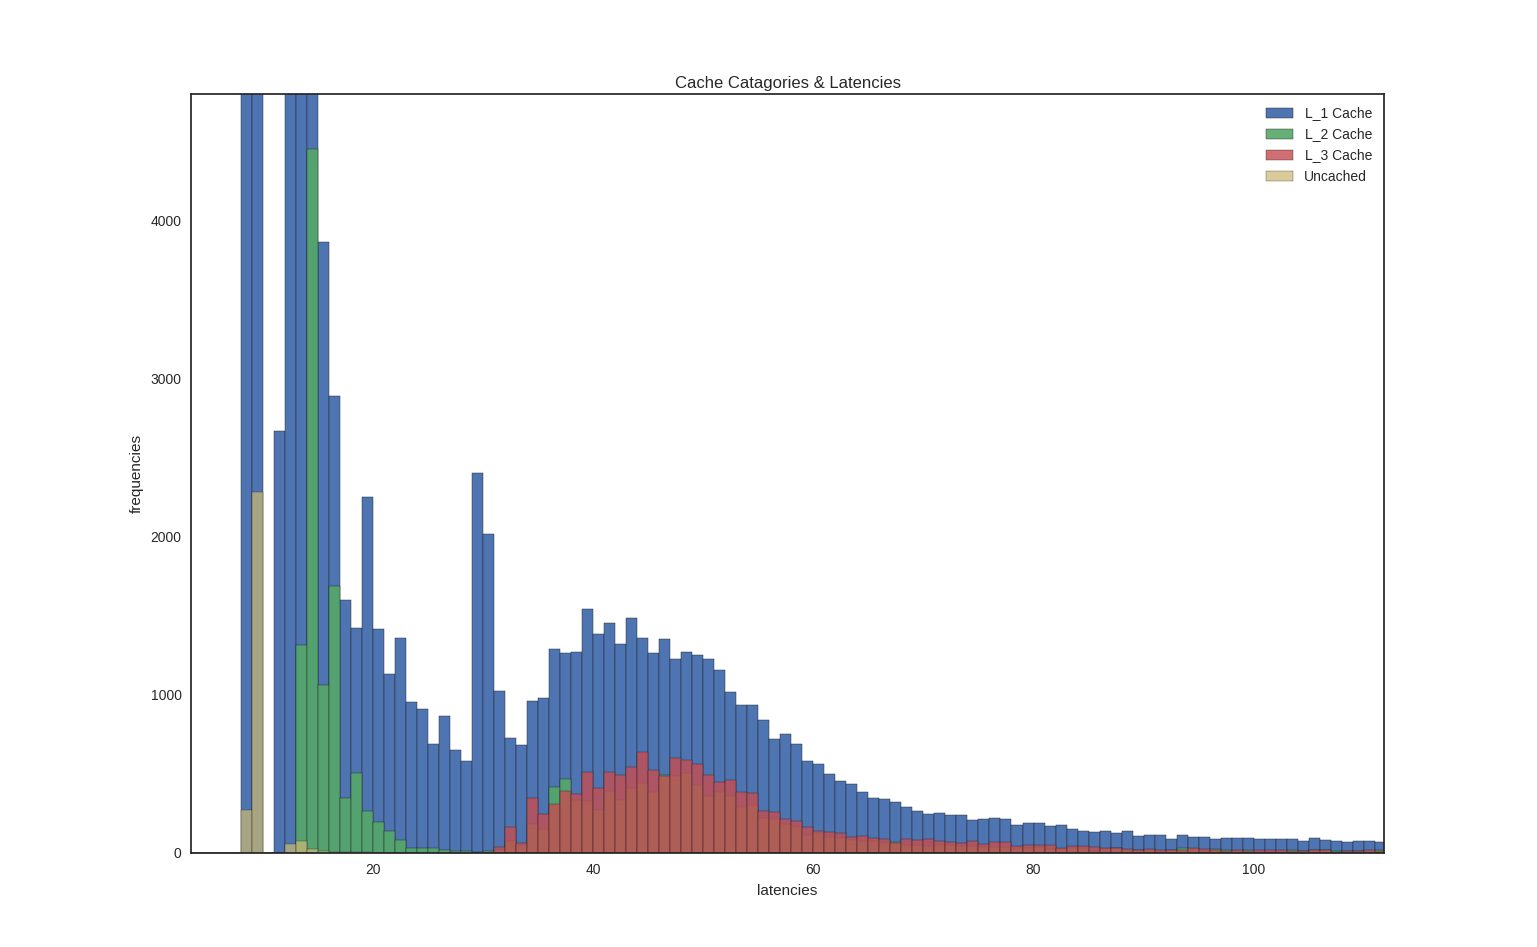
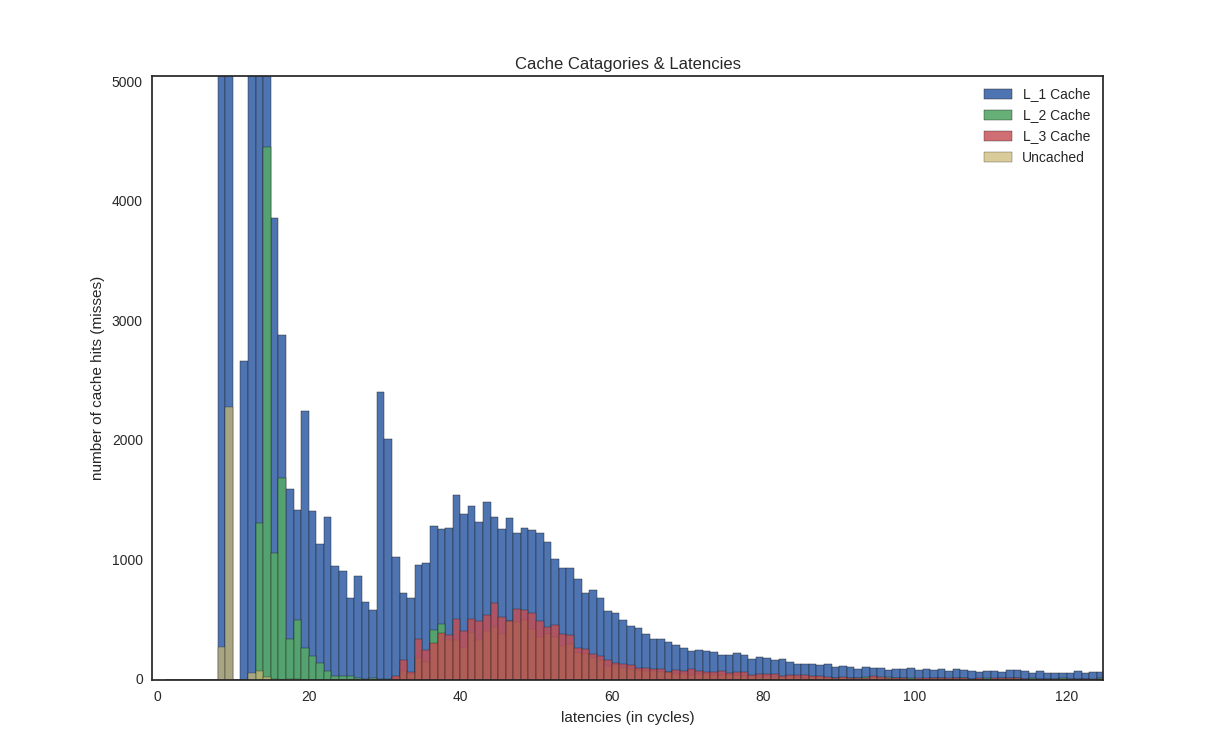
Refined plotting.

diff --git a/src/stat.py b/src/stat.py
@@ -245,8 +245,8 @@ def checkDataSrc_Latency():
 	axes.set_xlim([-1,501])
 
 	plt.title('Cache Catagories & Latencies')
-	plt.xlabel('latencies')
-	plt.ylabel('frequencies')
+	plt.xlabel('latencies (in cycles)')
+	plt.ylabel('number of cache hits (misses)')
 	plt.show()
 
 	# plot in seaborn
@@ -255,8 +255,8 @@ def checkDataSrc_Latency():
 	c = sns.distplot(L_3)
 	d = sns.distplot(UNC)
 	sns.plt.title('Cache Catagories & Latencies')
-	a.set_xlabel('latencies')
-	a.set_ylabel('frequencies')
+	a.set_xlabel('latencies (in cycles)')
+	a.set_ylabel('number of cache hits (misses)')
 	sns.plt.show()
 
 	print "checkLatency passed..." + '\n'
